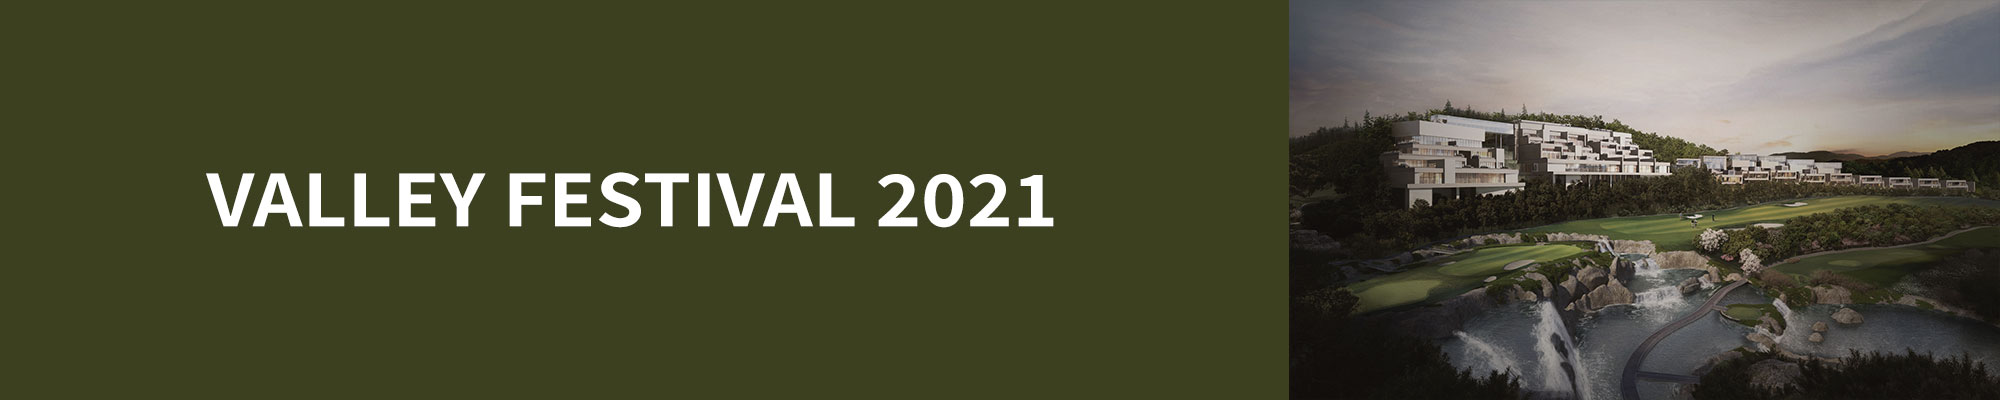
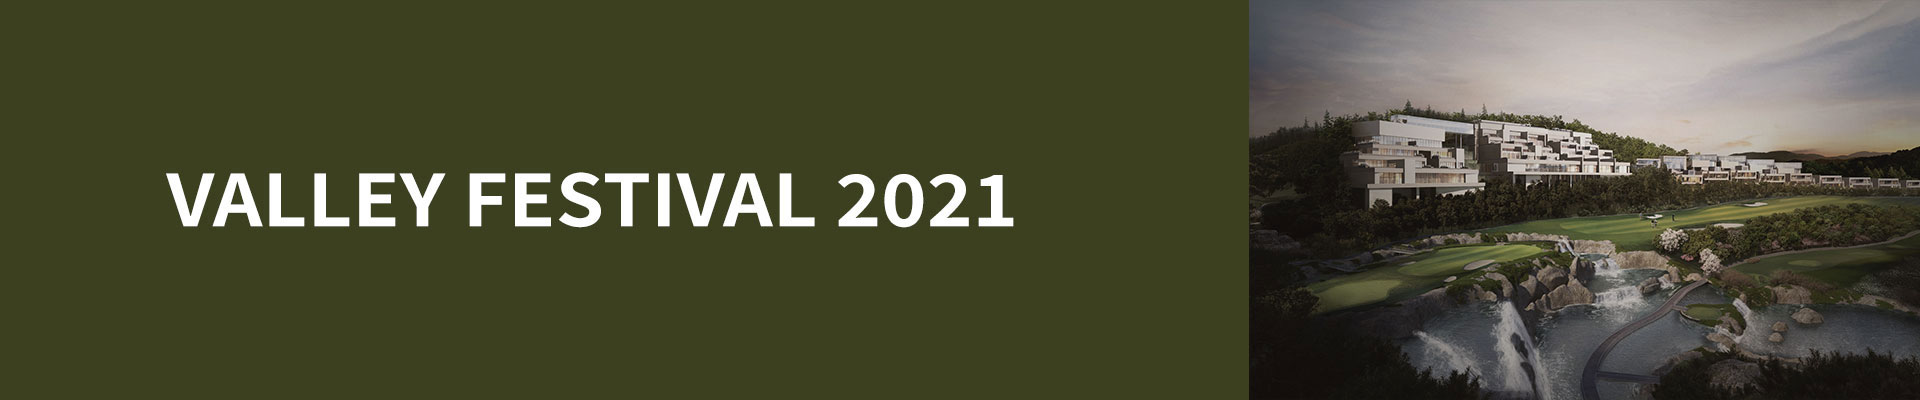
2023.08.10

Changed region(s): [[0.625, 0.0, 1.0, 1.0], [0.0625, 0.42, 0.5312, 0.57], [0.9062, 0.03, 1.0, 0.24]]

diff --git a/실기-완성/D-1-조이컨트리클럽/index.html b/실기-완성/D-1-조이컨트리클럽/index.html
@@ -92,8 +92,76 @@
                             </li>
                         </ul>
                     </div>
-                    <div class="bnr">배너</div>
-                    <div class="tabs-wrap">탭 2개</div>
+                    <div class="bnr">
+                        <a href="#"><img src="/images/banner.png" alt="banner" /></a>
+                    </div>
+                    <div class="tabs-wrap">
+                        <div class="tab active">
+                            <h2 class="tab-tit">공지사항</h2>
+                            <div class="tab-cont">
+                                <ul class="lst-bbs">
+                                    <li>
+                                        <a href="#"
+                                            ><p>Ticket warning! Running low on tier 2</p>
+                                            <em>2023.08.10</em></a
+                                        >
+                                    </li>
+                                    <li>
+                                        <a href="#"
+                                            ><p>Ticket warning! Running low on tier 2</p>
+                                            <em>2023.08.10</em></a
+                                        >
+                                    </li>
+                                    <li>
+                                        <a href="#"
+                                            ><p>Ticket warning! Running low on tier 2</p>
+                                            <em>2023.08.10</em></a
+                                        >
+                                    </li>
+                                    <li>
+                                        <a href="#"
+                                            ><p>Ticket warning! Running low on tier 2</p>
+                                            <em>2023.08.10</em></a
+                                        >
+                                    </li>
+                                </ul>
+                            </div>
+                        </div>
+                        <div class="tab">
+                            <h2 class="tab-tit tab-gallery">갤러리</h2>
+                            <div class="tab-cont">
+                                <ul class="lst-gal">
+                                    <li>
+                                        <a href="#"
+                                            ><img
+                                                src="https://images.unsplash.com/photo-1691431294916-16c7e1c69419?ixlib=rb-4.0.3&ixid=M3wxMjA3fDB8MHxwaG90by1wYWdlfHx8fGVufDB8fHx8fA%3D%3D&auto=format&fit=crop&w=687&q=80"
+                                                alt=""
+                                            />
+                                            <p>Lorem ipsum dolor sit amet.</p></a
+                                        >
+                                    </li>
+                                    <li>
+                                        <a href="#"
+                                            ><img
+                                                src="https://images.unsplash.com/photo-1691431294916-16c7e1c69419?ixlib=rb-4.0.3&ixid=M3wxMjA3fDB8MHxwaG90by1wYWdlfHx8fGVufDB8fHx8fA%3D%3D&auto=format&fit=crop&w=687&q=80"
+                                                alt=""
+                                            />
+                                            <p>Lorem ipsum dolor sit amet.</p></a
+                                        >
+                                    </li>
+                                    <li>
+                                        <a href="#"
+                                            ><img
+                                                src="https://images.unsplash.com/photo-1691431294916-16c7e1c69419?ixlib=rb-4.0.3&ixid=M3wxMjA3fDB8MHxwaG90by1wYWdlfHx8fGVufDB8fHx8fA%3D%3D&auto=format&fit=crop&w=687&q=80"
+                                                alt=""
+                                            />
+                                            <p>Lorem ipsum dolor sit amet.</p></a
+                                        >
+                                    </li>
+                                </ul>
+                            </div>
+                        </div>
+                    </div>
                 </main>
             </div>
             <footer>풋터</footer>

diff --git a/실기-완성/D-1-조이컨트리클럽/css/comm.css b/실기-완성/D-1-조이컨트리클럽/css/comm.css
@@ -91,13 +91,16 @@ header {
     opacity: 0.5;
 }
 main {
+    width: calc(100% - 200px);
     flex-grow: 1;
     position: relative;
 }
 main .quick {
+    display: block;
     position: absolute;
     top: 0;
     right: 0;
+    z-index: 1000;
 }
 .quick a {
     display: block;
@@ -108,7 +111,7 @@ main .quick {
     display: block;
     width: 80px;
 }
-/* 슬라이드 */
+/* 슬라이드 이미지 2000*400으로 만들기*/
 .slide {
     position: relative;
     display: block;
@@ -146,12 +149,80 @@ main .quick {
 }
 .slide img {
     display: block;
+    width: 100%;
+    height: 400px;
+    object-fit: cover;
 }
 .bnr {
     height: 200px;
+    padding: 20px;
+    background: #000;
 }
-.tab-wrap {
+.bnr img {
+    display: block;
+    width: 100%;
+    height: 160px;
+    object-fit: cover;
+}
+.tabs-wrap {
+    position: relative;
     height: 250px;
+    margin: 20px;
+    padding-top: 40px;
+}
+.tabs-wrap::before {
+    position: absolute;
+    top: 26px;
+    left: 0;
+    content: "";
+    width: 100%;
+    height: 2px;
+    background: #29412f;
+    z-index: 5;
+}
+.tabs-wrap .tab-tit {
+    position: absolute;
+    top: 0;
+    left: 0;
+    border: 2px solid #29412f;
+    padding: 0 4px;
+    font-size: 16px;
+    font-weight: normal;
+    width: 80px;
+    text-align: center;
+    cursor: pointer;
+}
+.tabs-wrap .active .tab-tit {
+    border: 2px solid #0037ff;
+    border-bottom: 2px solid #fff;
+    z-index: 10;
+}
+.tabs-wrap .tab-gallery {
+    left: 78px;
+}
+.tabs-wrap .tab-cont {
+    display: none;
+}
+.tabs-wrap .active .tab-cont {
+    display: block;
+}
+.lst-bbs a {
+    display: flex;
+    justify-content: space-between;
+    padding: 5px 0;
+}
+.lst-gal {
+    display: flex;
+    justify-content: space-between;
+}
+.lst-gal li {
+    width: 33.3333%;
+    padding: 10px;
+}
+.lst-gal li img {
+    width: 100%;
+    height: 170px;
+    object-fit: cover;
 }
 footer {
     background: #e29ce5;

diff --git a/실기-완성/D-1-조이컨트리클럽/js/comm.js b/실기-완성/D-1-조이컨트리클럽/js/comm.js
@@ -16,4 +16,10 @@ $(function () {
             $(this).parent().addClass("active");
         }
     });
+
+    //tabs
+    $(".tab-tit").on("click", function () {
+        $(".tab").removeClass("active");
+        $(this).parent(".tab").addClass("active");
+    });
 });
